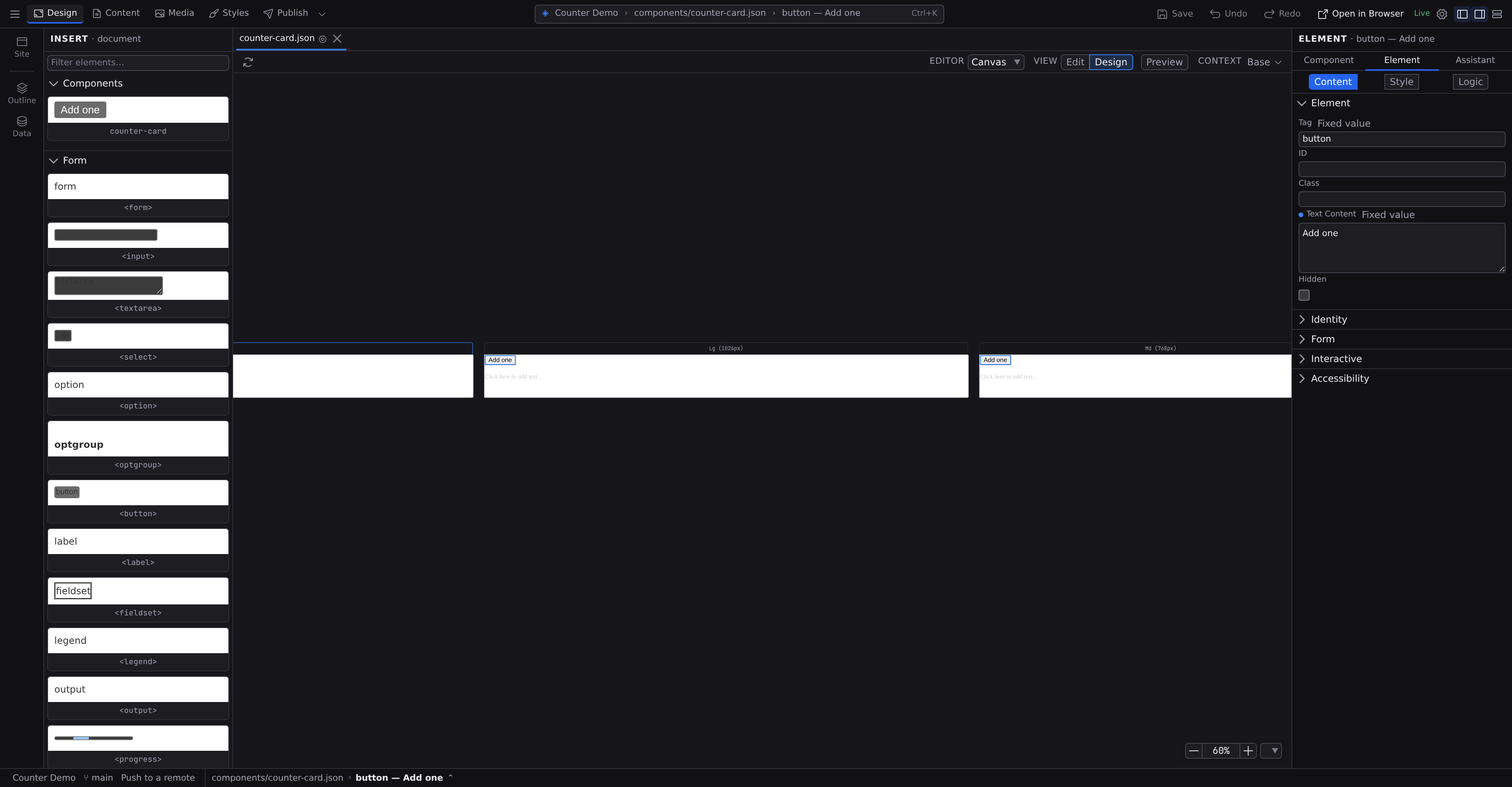
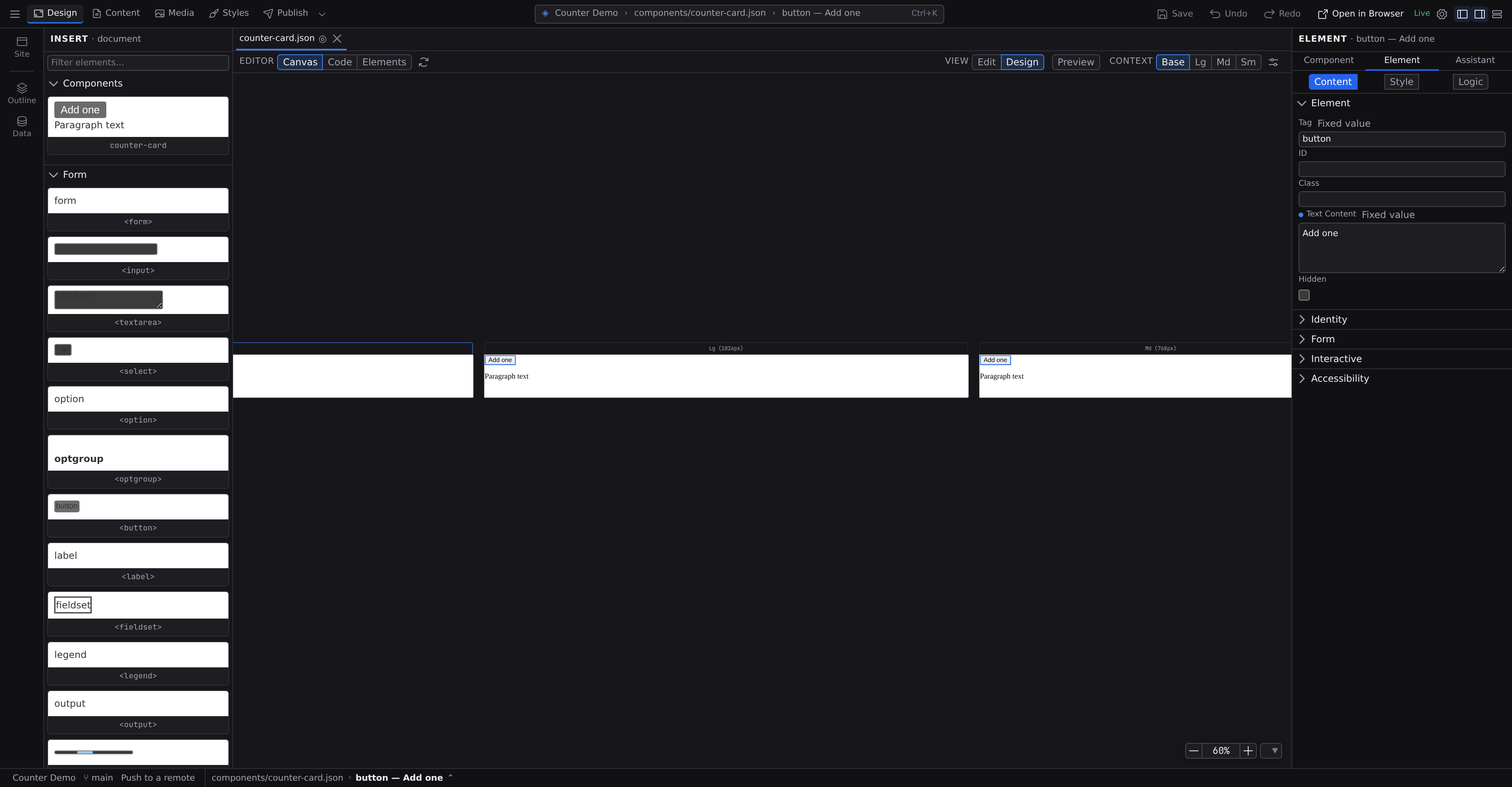
docs: walk the first component through the workspaces (#557)

Changed region(s): [[0.0312, 0.155, 0.1562, 0.992], [0.625, 0.062, 0.8438, 0.093], [0.1562, 0.062, 0.2812, 0.093]]

diff --git a/docs/start/first-component.md b/docs/start/first-component.md
@@ -1,11 +1,11 @@
 ---
 title: "Tutorial: your first interactive component"
-description: "Build a live counter card in Jx Studio, click by click: declare state, bind text to it, wire up a button's click event, and watch the value update."
+description: "Build a live counter card in Studio's Design workspace, click by click: declare state, bind text to it, wire a click event, and watch it update."
 ---
 
 # Tutorial: your first interactive component
 
-In this tutorial you build a `counter-card` component: a button and a line of text that counts the clicks, live. Small as it is, it walks the whole loop every interactive piece of a Jx site is made from, without writing any code: elements on the canvas, a state value, a binding, and an event.
+In this tutorial you build a `counter-card` component: a button and a line of text that counts the clicks, live. Small as it is, it walks the whole loop every interactive piece of a Jx site is made from, without writing any code: elements on the canvas, a state value, a binding, and an event. All of it happens in the **Design** workspace, where pages, templates and components are built.
 
 ![The finished counter card on the canvas with Preview on, showing a count of 3](../images/counter-finished.png)
 
@@ -20,41 +20,42 @@ Any project works. If you already have one from [Your first project](/docs/start
 
 ![The New Project dialog with the starter gallery and the Start from scratch card](../images/new-project-modal.png)
 
-You should now see your project open on the canvas.
+You should now see your project open on the canvas, with **Design** selected among the workspace tabs in the Command Bar (**Design**, **Content**, **Media**, **Styles**, **Publish**). A workspace is the task the window is set up for. If another tab is selected, click **Design** or press :kbd[⌘1]. See **[The workspace](/docs/studio/interface)**.
 
 ## 2. Create the component
 
 1. Press :kbd[⌘N] to open **Add new** (in a browser, :kbd[⌘⌥N]), or click the **+** at the top of the Site panel.
 2. Choose **Component**.
-3. Type `counter-card` and click **Create component**.
+3. Click **Component name**, type `counter-card`, leave **Start from** on **Blank**, and click **Create component**.
 
-Studio writes `components/counter-card.json` and opens it in a new tab, an empty canvas ready to fill. (When to reach for a component versus a page or layout is covered in **[Pages, layouts, and components](/docs/studio/projects/pages-layouts-components)**.)
+Studio writes `components/counter-card.json`, lists it under **Components** in the Site panel, and opens it in a new tab, an empty canvas ready to fill. Components belong to the Design workspace, so you stay where you are. (When to reach for a component versus a page or layout is covered in **[Pages, layouts, and components](/docs/studio/projects/pages-layouts-components)**.)
 
-## 3. Switch to Design
+## 3. Switch to the Design view
 
-Component files open in **Edit**. In the **View** control on the pane's context bar, click **Design**.
+Design is the name of the workspace and also of a view inside it. Component files open in the **Edit** view, so in the **View** control on the pane's context bar, click **Design**.
 
 ![Jx Studio design canvas showing one component across four responsive breakpoints with a style inspector](../images/mode-design.png)
 
-The canvas now shows your component once per breakpoint, empty for the moment, and the Inspector on the right offers the **Content**, **Style**, **Logic**, and **Assistant** tabs. Views are lenses on the same file; see **[Editors and views](/docs/studio/interface/modes)**.
+The canvas now shows your component once per breakpoint, empty for the moment, and the Inspector on the right has three tabs: **Component**, which holds the file's own settings, **Element**, which holds **Content**, **Style**, and **Logic** views of whatever you select, and **Assistant**. Views are lenses on the same file; see **[Editors and views](/docs/studio/interface/modes)**.
 
 ## 4. Add a button and a text line
 
-1. Press :kbd[⌘K] and run **Show Insert** to open the palette.
+1. Press :kbd[⌘K], type `>Show Insert`, and press :kbd[Enter]. The **Insert** palette replaces the Site panel in the Navigator. (The `>` is what searches commands; without it, :kbd[⌘K] searches your files.)
 2. With nothing selected, click the `<button>` card. The button is added to the empty component.
-3. Click the `<p>` card to add a paragraph. A card inserts into whatever is selected, as its last child; with nothing selected that's the component's root, so the paragraph lands after the button rather than inside it.
-4. Select the button, open the Inspector's **Content** tab, and type `Add one` into **Text Content**.
+3. Click the `<p>` card to add a paragraph, typing `p` into **Filter elements…** if you'd rather not scroll. A card inserts into whatever is selected, as its last child; with nothing selected that's the component's root, so the paragraph lands after the button rather than inside it.
+4. Select the button on the canvas. The Inspector moves to its **Element** tab, on the **Content** view.
+5. Open the **Element** section if it is collapsed, and replace `Button` in **Text Content** with `Add one`.
 
-![The design canvas with a button labeled Add one and an empty paragraph below it](../images/counter-elements.png)
+![The design canvas with a button labeled Add one and the words Paragraph text below it](../images/counter-elements.png)
 
-You should now see a button labeled **Add one** with an empty paragraph after it, at every breakpoint. The other ways to insert, dragging cards and the **+** affordance between elements, are covered in **[The canvas](/docs/studio/interface/canvas)** and the **[Insert palette](/docs/studio/design/elements)**.
+You should now see a button labeled **Add one** with the placeholder words `Paragraph text` after it, at every breakpoint. The other ways to insert, dragging cards and the **+** affordance between elements, are covered in **[The canvas](/docs/studio/interface/canvas)** and the **[Insert palette](/docs/studio/design/elements)**.
 
 ## 5. Declare the count
 
 The component needs somewhere to keep its number. That's a state entry:
 
 1. Click **Data** in the **Document** group of the Navigator rail to open the **Data** panel.
-2. Click the **+ Add…** picker at the bottom of the panel and choose **Value**. The new entry appears with a placeholder name and its editor open.
+2. Click **Add a value**, or choose **Value** from the **+ Add…** picker below it. The new entry appears with a placeholder name and its editor open.
 3. Rename it first: type `count` into the **Name** field and press :kbd[Enter].
 4. Set **Type** to `integer`, then type `0` into **Default**. A new entry starts with an empty default, and an empty string is not something you can add one to.
 
@@ -67,28 +68,28 @@ The panel now shows a **State** section with one row: an **S** badge and the nam
 Now point the paragraph at the value instead of typing fixed text:
 
 1. Select the paragraph on the canvas.
-2. In the Inspector's **Content** tab, find the **Text Content** row in the **Element** section. Beside its label sits a small chip reading **Fixed value**. That is the row's _value source_, and it says the text is a literal you typed.
+2. In the Inspector's **Element** tab, on the **Content** view, find the **Text Content** row in the **Element** section. Beside its label sits a small chip reading **Fixed value**. That is the row's _value source_, and it says the text is a literal you typed.
 3. Click the chip. A short list opens naming every source this field accepts (**Fixed value**, **From data…**, **Mixed text**), each with a line saying what it does. Pick **Mixed text**. Any source is one click away; the chip never cycles you through the ones you didn't want.
 4. Studio fills the field with your first state entry: `${state.count}`. Keep it, or mix in words: `Clicked ${state.count} times`.
 
-![The Text Content row set to Mixed text, holding ${state.count}, with its value-source chip accent-colored](../images/counter-text-binding.png)
+![The Text Content row set to Mixed text, holding ${state.count}](../images/counter-text-binding.png)
 
-The chip takes on the accent color: this value is produced from something else now, and the paragraph will always show the current count. The same four words name a value's source everywhere in Studio (**Fixed value**, **From data…**, **Mixed text**, **Formula**), and each field offers only the ones it can legally hold, which is why Text Content shows three of them. The dynamic ones are explained in **[Formulas and expressions](/docs/studio/logic/formulas)**.
+The chip now reads **Mixed text**: this value is produced from something else, and the paragraph will always show the current count. On the canvas it shows the binding itself, `❪ state.count ❫`, until you preview it. The same four words name a value's source everywhere in Studio (**Fixed value**, **From data…**, **Mixed text**, **Formula**), and each field offers only the ones it can legally hold, which is why Text Content shows three of them. The dynamic ones are explained in **[Formulas and expressions](/docs/studio/logic/formulas)**.
 
 ## 7. Make the button count
 
-1. Select the button and open the Inspector's **Logic** tab, either by clicking it or by pressing :kbd[⌘⇧4]. Logic is where an element's behavior lives: its events, and the condition or repeating-list settings when it has them.
-2. In the **Events** section, click **Add Event**. A binding appears on `onclick`, and since the file has no functions yet it starts as an inline handler.
-3. The picker beside the event name chooses how the binding responds. Set it to **Expression**, the mode for one-step reactions. (**Inline code** and **Existing function** are the other two.)
-4. In the formula editor, set the **Operator** to `+=`. The **Target** row becomes a signal picker, so choose `count`. In the **Value** row, leave the source on **Fixed value**, change its type from `null` to `num`, and enter `1`.
+1. Select the button and open the **Logic** view of the Inspector's **Element** tab, either by clicking it or by pressing :kbd[⌘⇧4]. Logic is where an element's behavior lives: its events, and the condition or repeating-list settings when it has them.
+2. In the **Events** section, click **Add Event**. A binding appears on `onclick`, and since the file has no functions yet its value source chip reads **Inline function**.
+3. Click the chip to choose how the binding responds, and pick **Formula**, the source for one-step reactions. (**From data…** and **Inline function** are the other two.)
+4. In the formula editor, set the **Operator** to `+=`. Set **Target** to `count`. In the **Value** row, leave the source on **Fixed value**, change its type from `null` to `num`, and enter `1`.
 
-![The Logic tab with an onclick binding in expression mode incrementing count](../images/counter-onclick.png)
+![The Logic view with an onclick binding set to Formula, incrementing count](../images/counter-onclick.png)
 
-A chip strip above the editor summarizes the formula as a `count` chip followed by a `+=` chip, and each chip carries a small badge with the value it evaluates to against the running page. The three ways an event can respond (**Existing function**, **Expression**, **Inline code**) are covered in **[Events](/docs/studio/logic/events)**.
+A chip strip above the editor summarizes the formula as a `count` chip followed by a `+=` chip. The `+=` chip's badge reads `undefined`, because an assignment changes a value rather than producing one. The three ways an event can respond (**From data…**, **Formula**, **Inline function**) are covered in **[Events](/docs/studio/logic/events)**.
 
 ## 8. Try it in Preview
 
-Pick **Preview** in the **View** control on the context bar. The paragraph now shows `0`, the resolved value. Click **Add one** a few times.
+Click **Preview**, the toggle beside the **View** control on the context bar. **Design** stays marked, because it is the view you return to when you click **Preview** again. The paragraph now shows `0`, the resolved value. Click **Add one** a few times.
 
 ![The canvas with Preview on, the paragraph showing the climbed count](../images/counter-preview.png)
 
@@ -96,7 +97,7 @@ You should see the number climb with every click. That's the whole reactive loop
 
 ## 9. Watch the value resolve
 
-Click **Data** in the **Document** group of the Navigator rail, or run **Show Data** from :kbd[⌘K]. It lists the same entries as the Data panel, but with what each one is worth _right now_, so your `count` row shows the current number. Stay in Preview, click **Add one**, and watch the row change; **Refresh** re-renders the canvas and reads the values again.
+The **Data** panel also shows what each entry is worth _right now_. If it isn't still open, click **Data** in the **Document** group of the Navigator rail, then click the `count` row to open it: **Resolved to** holds the current number. Stay in Preview, click **Add one**, and watch it change; **Refresh** re-renders the canvas and reads the values again.
 
 ![The Data panel with the count entry showing its live value](../images/counter-data-explorer.png)
 
@@ -106,9 +107,9 @@ When a page ever looks wrong, this panel is where you find out what it actually 
 
 Because `count` is a plain state value on a component, it's also one of the component's _props_: an option a page can set when it uses the card.
 
-1. On the context bar, click **Defaults ⌄**. The popover headed **resolving with** holds one field per prop.
-2. Type `100` into the **count** field.
-3. The canvas re-renders with the count starting at 100, at every breakpoint, and the button now reads **1 set**.
+1. On the context bar, click **Defaults**. The popover headed **Resolving with** holds one field per prop.
+2. Type `100` into the **count** field and press :kbd[Enter].
+3. The canvas re-renders with the count starting at 100, and the context bar button now reads **1 set**.
 4. Clear the field to return to the default of `0`.
 
 ![The resolving-with popover holding a test value, the canvas rendering with it](../images/counter-test-prop.png)
@@ -119,7 +120,7 @@ Test values are a preview lens only, and are never saved into the component. Pro
 
 The document's tab shows a **●** dot for unsaved changes. Press :kbd[⌘S] (macOS) or :kbd[Ctrl+S] (Windows/Linux), or click **Save** in the Command Bar, and the dot goes away.
 
-You should see the dot disappear. When you're ready to publish, the **Publish** workspace takes it from here. See **[Source control](/docs/studio/publish/source-control)**.
+You should see the dot disappear. When you're ready to publish, the **Publish** workspace (:kbd[⌘5]) takes it from here; your tab stays open in Design while you are there. See **[Source control](/docs/studio/publish/source-control)**.
 
 ## What you built
 
@@ -127,7 +128,7 @@ A working, reusable component, and every piece of the interactive toolkit in one
 
 - A **state entry** (`count`) is the component's memory, and automatically its prop.
 - A **template binding** (`${state.count}`) is text that follows the value wherever it goes.
-- An **event expression** (`count += 1`, assembled from an operator and two operands) is behavior without a line of code.
+- An **event formula** (`count += 1`, assembled from an operator and two operands) is behavior without a line of code.
 - **Preview**, the **Data** panel's resolved values, and **test values** are three ways to watch it run.
 
 :::doc-note
@@ -136,7 +137,7 @@ Everything landed in one plain file, `components/counter-card.json`: the entry i
 
 ## Next steps
 
-- Drop the card onto any page from the **[Insert palette](/docs/studio/design/elements)**, where your components appear at the top.
+- Drag the card onto any page from **Components** in the Site panel, or insert it from the **[Insert palette](/docs/studio/design/elements)**, where your components appear at the top.
 - Style its spacing, color and hover states with the **[Style inspector](/docs/studio/design/style-inspector)**.
 - When one step isn't enough, build multi-step handlers as **[statements](/docs/studio/logic/statements)**.
 - Keep going: **[Tutorial: a blog with content collections](/docs/start/first-collection)**.

diff --git a/docs/studio/projects/media.md b/docs/studio/projects/media.md
@@ -79,7 +79,7 @@ Click **Upload** in the Media workspace's toolbar, or drop files anywhere on it.
 
 Only the kinds of file the workspace lists are uploaded: images, video, audio, PDFs and fonts. Drop a text file or a spreadsheet along with your pictures and Studio skips it and says which files it left out, rather than adding something you would never see here.
 
-You can also run **Upload Media…** from the command palette (:kbd[⌘K]), which opens the same file picker. **Rename Media File…** and **Duplicate Media File** are there too, for a script or a shortcut that names a file's path.
+You can also run **Upload Media…** from the command palette (:kbd[⌘K], then `>`), which opens the same file picker. **Rename Media File…** and **Duplicate Media File** are there too, for a script or a shortcut that names a file's path.
 
 ## Drag onto the canvas
 
@@ -98,7 +98,7 @@ Dropping onto a component that takes a single image (a card with a cover picture
 
 ## Choose media for a field
 
-Studio asks for an image or file in several places: an image's **Content** tab, a frontmatter field, and the Icon and social-image fields in **[Search appearance](/docs/studio/editing/frontmatter)**. Every one of them has a browse button and an **Upload** button.
+Studio asks for an image or file in several places: an image's **Content** view, a frontmatter field, and the Icon and social-image fields in **[Search appearance](/docs/studio/editing/frontmatter)**. Every one of them has a browse button and an **Upload** button.
 
 The browse button opens a compact list: a search box over the project's media, matched on name or path, with a thumbnail for every image. It lists the first 50 files, and **Show N more** at the foot of the list lists the next 50, so every file the Media workspace has can be reached from here. A field that holds a picture lists only images. It opens above whatever surface it was called from, so it works the same in a panel and in a window like Search appearance.
 
@@ -157,7 +157,7 @@ This is the fastest way to check what an [imported site](/docs/studio/projects/c
 
 ## Edit an image
 
-An image you can edit offers a second editor next to **Media** in the pane's **Editor** control: **Image**. Choose it there, or choose **Edit image** in the Media workspace, or run **Edit Image…** from the command palette.
+An image you can edit offers a second editor next to **Media** in the pane's **Editor** control: **Image**. Choose it there, or choose **Edit image** in the Media workspace, or run **Edit Image…** from the command palette (:kbd[⌘K], then `>`).
 
 ![The Image editor: a photo with crop handles around it, and the orientation, size, quality and tone controls beside it](../../images/image-editor.png)
 

diff --git a/docs/studio/logic.md b/docs/studio/logic.md
@@ -24,17 +24,17 @@ Together they cover the whole range: most interactions never need code, and the 
 
 Here is the shape of the workflow, end to end:
 
-1. Open a component and click **Data** on the Navigator rail. Choose _+ Add… > Value_, name it `$count`, set its **Type** to `integer` and its **Default** to `0`. The component now knows a number.
-2. Add a button to the canvas and set its text to show `$count`. Click the **value source** chip beside **Text Content** on the Content tab, pick **From data…**, and choose `$count`.
-3. With the button selected, open the Inspector's **Logic** tab and click **Add Event**. Set the event to `onclick`, choose the **Expression** mode, and build the one-step formula `$count += 1`.
-4. Pick **Preview** in the **View** control on the context bar and click the button. The number climbs, and in the **Data** panel you can watch `$count` change in real time.
+1. Open a component and click **Data** on the Navigator rail. Choose _+ Add… > Value_, name it `count`, set its **Type** to `integer` and its **Default** to `0`. The component now knows a number.
+2. Add a button to the canvas and set its text to show `count`. Click the **value source** chip beside **Text Content** in the Inspector's **Content** view, pick **From data…**, and choose `count`.
+3. With the button selected, open the Inspector's **Logic** view and click **Add Event**. A binding appears on `onclick`. Click its value source chip, pick **Formula**, and build the one-step formula `count += 1`.
+4. Click **Preview**, the toggle beside the **View** control on the context bar, and click the button. The number climbs, and in the **Data** panel you can watch `count` change in real time.
 
 No files were written by hand: Studio stored the value, the binding, and the handler inside the component's own JSON file.
 
 ## When each surface applies
 
 - Reach for **Data** first, because every other surface refers back to what you declare there.
-- Use the Inspector's **Logic** tab whenever behavior belongs to one element ("this button submits", "this list repeats per product", "this field filters the list").
+- Use the Inspector's **Logic** view whenever behavior belongs to one element ("this button submits", "this list repeats per product", "this field filters the list").
 - Use **formulas** for values that are calculated rather than typed, and **[statements](/docs/studio/logic/statements)** when a handler needs several steps in order.
 - Prefer the plainest value source a field will accept. A signal (**From data…**) is easier to read and to revisit than a formula that only fetches one value.
 - Come back to **Data** whenever something looks wrong. It shows what the page actually sees, not what you hoped it sees.

diff --git a/docs/studio/design/breakpoints.md b/docs/studio/design/breakpoints.md
@@ -63,7 +63,7 @@ Breakpoints layer in the same order a browser applies their media queries, so wh
 
 ## Define your breakpoints
 
-Breakpoints are defined in one place: **Settings › Advanced › Contexts**. Pick **Open Project Settings › Contexts** from the **Settings** menu in the Command Bar. You can also press :kbd[⌘K] and run **Open Project Settings**, or use the **⬢ menu** in the Command Bar, then choose **Contexts** in the section list. From the canvas, the sliders button at the end of the context bar's **Context** controls opens a popover with a **Manage contexts…** button at the bottom that lands on the same section without losing your element selection.
+Breakpoints are defined in one place: **Settings › Advanced › Contexts**. Pick **Open Project Settings › Contexts** from the **Settings** menu in the Command Bar. You can also press :kbd[⌘K] and type `>Open Project Settings`, or use the **⬢ menu** in the Command Bar, then choose **Contexts** in the section list. From the canvas, the sliders button at the end of the context bar's **Context** controls opens a popover with a **Manage contexts…** button at the bottom that lands on the same section without losing your element selection.
 
 The section holds three groups, because all three are the same thing on disk and only differ in what their condition asks about:
 
@@ -86,7 +86,7 @@ Forcing a scheme while the size is **Base** points your edits at that scheme's o
 :::doc-note
 **Definition and selection are separate.** Settings › Contexts is the only place a context is created, renamed or deleted. The context bar's **Context** controls only _choose_ among what is defined there, and the Style tab's Target Line only _states_ what was chosen. Clicking its breakpoint segment takes you to Settings › Contexts rather than offering a third list to disagree with.
 
-Every choice in that popover is also a command, so you can make it without reaching for the mouse: press :kbd[⌘K] and run **Set Breakpoint**, **Set Color Scheme** or **Show Layout Elements**. Each one asks for the value it needs, and Set Breakpoint lists the breakpoints this page can actually render under if you name one it can't.
+Every choice in that popover is also a command, so you can make it without reaching for the mouse: press :kbd[⌘K] and type `>Set Breakpoint`, `>Set Color Scheme` or `>Show Layout Elements`. Each one asks for the value it needs, and Set Breakpoint lists the breakpoints this page can actually render under if you name one it can't.
 :::
 
 :::doc-note

diff --git a/docs/studio/interface/modes.md b/docs/studio/interface/modes.md
@@ -34,7 +34,7 @@ Edit is for writing. The canvas becomes the page itself: click any text and type
 
 ## Design
 
-Design is for structure and style. The canvas shows a live panel per breakpoint, phone and tablet and desktop side by side, and the **Style** tab of the Inspector becomes a full visual inspector for the selected element. A page's title, layout and frontmatter are on the Inspector's **Page** tab, in Design as in Edit. Full guide: **[Design mode](/docs/studio/design)**.
+Design is for structure and style. The canvas shows a live panel per breakpoint, phone and tablet and desktop side by side, and the **Style** view of the Inspector becomes a full visual inspector for the selected element. A page's title, layout and frontmatter are on the Inspector's **Page** tab, in Design as in Edit. Full guide: **[Design mode](/docs/studio/design)**.
 
 ![Jx Studio design canvas showing one component across four responsive breakpoints with a style inspector](../../images/mode-design.png)
 
@@ -76,7 +76,7 @@ The full guide is **[Source control](/docs/studio/publish/source-control#read-a-
 
 ## Project Styles
 
-Project Styles is the Styles workspace's two style editors over your project file. **Elements** is the catalog of your project's element defaults: every heading, button, and link rendered with its base style, so you set the look of each element type once for the whole site. Selecting an element switches the Inspector to the **Style** tab automatically. **Variables** lists your site's CSS custom properties by group, each editable in place. See **[Project Styles](/docs/studio/design/stylebook)** and **[Design tokens](/docs/studio/design/tokens)**.
+Project Styles is the Styles workspace's two style editors over your project file. **Elements** is the catalog of your project's element defaults: every heading, button, and link rendered with its base style, so you set the look of each element type once for the whole site. Selecting an element switches the Inspector to the **Style** view automatically. **Variables** lists your site's CSS custom properties by group, each editable in place. See **[Project Styles](/docs/studio/design/stylebook)** and **[Design tokens](/docs/studio/design/tokens)**.
 
 ![Jx Studio Project Styles showing element defaults across breakpoints](../../images/stylebook.png)
 

diff --git a/docs/start/first-collection.md b/docs/start/first-collection.md
@@ -18,7 +18,7 @@ In this tutorial you give your site a blog the structured way: a `posts` content
 
 A content type is your CMS schema: where a collection's entries live, and what fields each one carries.
 
-1. Open the **Settings** menu in the Command Bar and pick **Open Project Settings › Content Types**. (:kbd[⌘K] and **Open Project Settings** gets you to the same place.)
+1. Open the **Settings** menu in the Command Bar and pick **Open Project Settings › Content Types**. (:kbd[⌘K] and `>Open Project Settings` gets you to the same place.)
 2. Click **New content type** at the bottom of the type list.
 3. Type `Posts` and click **Create**.
 
@@ -106,9 +106,9 @@ You should see the empty page on the design canvas, once per breakpoint.
 
 Design a single card, which the repeater will copy per post:
 
-1. Press :kbd[⌘K] and run **Show Insert**. With nothing selected, click the **article** card.
+1. Press :kbd[⌘K] and type `>Show Insert`. With nothing selected, click the **article** card.
 2. With the article selected, click the **h3** card, then the **p** card twice. Each new element lands inside the selection.
-3. Select each of the three in turn and give it placeholder text via **Text Content** in the Inspector's **Content** tab: `Post title`, `A line about the post.`, and `2026-01-01`.
+3. Select each of the three in turn and give it placeholder text via **Text Content** in the Inspector's **Content** view: `Post title`, `A line about the post.`, and `2026-01-01`.
 
 ![The design canvas with one article card holding a heading and two placeholder paragraphs](../images/blog-card.png)
 
@@ -151,7 +151,7 @@ Each text now holds a placeholder that fills itself from the current post. (A co
 
 ## 13. Preview and save
 
-Pick **Preview** in the **View** control on the context bar.
+Click **Preview**, the toggle beside the **View** control on the context bar.
 
 ![Preview on, the single card expanded into three post cards with real titles, dates, and descriptions](../images/blog-preview.png)
 

diff --git a/docs/studio/design/style-inspector.md b/docs/studio/design/style-inspector.md
@@ -18,9 +18,9 @@ code:
 
 # Style inspector
 
-The Style inspector is the **Style** tab of the Inspector, a full set of visual CSS controls for what you have selected. Select an element in Design mode and click **Style** (or press :kbd[⌘⇧3]); edits apply to the live canvas as you make them. The dock's header names the tab and what it is pointed at: the element's tag, `6 elements` when several are selected, or the document's name when nothing is.
+The Style inspector is the **Style** view of the Inspector, a full set of visual CSS controls for what you have selected. Select an element in Design mode and click **Style** (or press :kbd[⌘⇧3]); edits apply to the live canvas as you make them. The dock's header names the view and what it is pointed at: the element's tag, `6 elements` when several are selected, or the document's name when nothing is.
 
-With no file open the tab offers **Open a page…**; with a file open and nothing selected it asks you to click anything on the canvas to style it, in the same words the **Content** and **Logic** tabs use. Beside the **Variables** view of the Styles workspace there is no element to style, so the tab says that variables are edited in the view itself and points you to the **Elements** view for element defaults (see **[Design tokens](/docs/studio/design/tokens)**).
+With no file open the view offers **Open a page…**; with a file open and nothing selected it asks you to click anything on the canvas to style it, in the same words the **Content** and **Logic** views use. Beside the **Variables** view of the Styles workspace there is no element to style, so the view says that variables are edited in the view itself and points you to the **Elements** view for element defaults (see **[Design tokens](/docs/studio/design/tokens)**).
 
 ![Jx Studio style inspector with spacing, typography, and color controls for a selected element](../../images/design-inspector.png)
 

diff --git a/docs/studio/projects/content-types.md b/docs/studio/projects/content-types.md
@@ -27,7 +27,7 @@ code:
 
 Content types are your site's CMS schema. Each one describes a collection (blog posts, team members, projects) by naming the folder its entries live in, the file format they use, and the fields every entry carries. Once a type exists, Studio can create entries against it and draw their fields as a form.
 
-The builder is a section of [Project settings](/docs/studio/projects/settings), listed under **Integrations** because the parser extension contributes it. Pick **Open Project Settings › Content Types** from the **Settings** menu in the Command Bar. You can also press :kbd[⌘K] and run **Open Project Settings**, or use the **⬢ menu** in the Command Bar, then choose **Content Types** from the section list: the section opens with one sentence on what a content type is, your types are listed on the left, and selecting one opens its editor on the right. Like every other section, what you change here is written to `project.json` as you make it.
+The builder is a section of [Project settings](/docs/studio/projects/settings), listed under **Integrations** because the parser extension contributes it. Pick **Open Project Settings › Content Types** from the **Settings** menu in the Command Bar. You can also press :kbd[⌘K] and type `>Open Project Settings`, or use the **⬢ menu** in the Command Bar, then choose **Content Types** from the section list: the section opens with one sentence on what a content type is, your types are listed on the left, and selecting one opens its editor on the right. Like every other section, what you change here is written to `project.json` as you make it.
 
 ![The Content Types section with a type selected and its field schema open in the builder](../../images/content-type-builder.png)
 

diff --git a/docs/studio/data/tables.md b/docs/studio/data/tables.md
@@ -73,7 +73,7 @@ Filtering, sorting, and paging all happen in the database rather than in the bro
 :::doc-note
 Compiled pages carry no extension code. Each source is lowered at build time into a plain request to your site's own `/_jx/data` routes: `GET /_jx/data/comments?filter=…&sort=…&limit=…&offset=…&include=…` for a query, `GET /_jx/data/comments/<id>` for an entry, and `POST`/`PATCH`/`DELETE` for the actions. Each write action becomes an inline handler that reads the submitted form. Permission rules are evaluated on the server for every one of those requests.
 
-In the JSON, a route parameter binds as `{ "$ref": "#/$params/id" }` (the same way a **[dynamic route](/docs/framework/site/routing)** binds a content entry), and a form points at a write action with `"onsubmit": { "$ref": "#/state/addComment" }`. That last one is written in the **[Code editor](/docs/studio/logic/code)** today, because the **[Events](/docs/studio/logic/events)** section of the Inspector's **Logic** tab (:kbd[⌘⇧4]) lists plain functions in its handler picker, and a write action is not one.
+In the JSON, a route parameter binds as `{ "$ref": "#/$params/id" }` (the same way a **[dynamic route](/docs/framework/site/routing)** binds a content entry), and a form points at a write action with `"onsubmit": { "$ref": "#/state/addComment" }`. That last one is written in the **[Code editor](/docs/studio/logic/code)** today, because the **[Events](/docs/studio/logic/events)** section of the Inspector's **Logic** view (:kbd[⌘⇧4]) lists plain functions in its handler picker, and a write action is not one.
 :::
 
 To see and fix the rows by hand, open the **[Data grid](/docs/studio/data/grid)**.

diff --git a/docs/start/coming-from-webflow.md b/docs/start/coming-from-webflow.md
@@ -67,7 +67,7 @@ Collections cover the content you author. Data that arrives while the site is ru
 
 ## Interactions, honestly
 
-Behavior in Jx comes from three surfaces working together: **[State](/docs/studio/logic/data)** declares what a page knows, the Inspector's **Logic** tab (:kbd[⌘⇧4]) binds **[events](/docs/studio/logic/events)** to clicks, typing, and submits, and **[formulas](/docs/studio/logic/formulas)** compute values live. Logic is also where a `$switch` picks between variants and where a repeater is pointed at its list, so everything about how one element behaves is in one place. The logic side of interactions is covered, often more directly than a timeline can express it: toggles, tabs, filtered lists, form behavior.
+Behavior in Jx comes from three surfaces working together: **[State](/docs/studio/logic/data)** declares what a page knows, the Inspector's **Logic** view (:kbd[⌘⇧4]) binds **[events](/docs/studio/logic/events)** to clicks, typing, and submits, and **[formulas](/docs/studio/logic/formulas)** compute values live. Logic is also where a `$switch` picks between variants and where a repeater is pointed at its list, so everything about how one element behaves is in one place. The logic side of interactions is covered, often more directly than a timeline can express it: toggles, tabs, filtered lists, form behavior.
 
 What Jx doesn't have is Webflow's scroll-driven animation timeline. Hover and focus effects with CSS transitions come through [States and selectors](/docs/studio/design/states-and-selectors), but choreographed scroll animation isn't a built-in surface today.
 

diff --git a/docs/studio/editing/writing.md b/docs/studio/editing/writing.md
@@ -96,7 +96,7 @@ Text that a component fills from data can't be edited this way, because typing o
 
 The same goes for an option that holds a **number or a yes/no value** rather than text: it shows as text on the page, but editing it here would turn it into text and break anything that counts or compares it. Use the properties sidebar, which knows what kind of value the option takes.
 
-Sometimes the page already sets an option some other way: as a plain attribute, or straight on the component tag rather than in its options. Those are left to the Inspector's **Content** tab too. Editing it here would quietly create a second copy of the same value: sometimes the page keeps showing the first one and your change appears to do nothing, and otherwise the old copy sits there unused and comes back the day the option is cleared.
+Sometimes the page already sets an option some other way: as a plain attribute, or straight on the component tag rather than in its options. Those are left to the Inspector's **Content** view too. Editing it here would quietly create a second copy of the same value: sometimes the page keeps showing the first one and your change appears to do nothing, and otherwise the old copy sits there unused and comes back the day the option is cleared.
 
 Clicking a component's text and clicking away again changes nothing, because an option only gets set on that instance when you actually edit it. :kbd[Esc] is a real cancel, including after Studio has already saved a pause mid-edit.
 

diff --git a/docs/studio/design/components.md b/docs/studio/design/components.md
@@ -56,7 +56,7 @@ By default an instance renders exactly what the component defines. A **slot** is
 
 ## Preview with test props
 
-A component file open on its own renders with its defaults, but defaults are often empty. Open the context bar's **resolving with** popover and you get one field per prop, stacked; type a value to see the component render with it, live on the canvas at every breakpoint. Numbers, `true`/`false`, and lists in JSON form are understood as such; anything else counts as text. Each field is also a command, so you can set one by name without reaching for the popover: press :kbd[⌘K] and run **Set Test Value**.
+A component file open on its own renders with its defaults, but defaults are often empty. Open the context bar's **resolving with** popover and you get one field per prop, stacked; type a value to see the component render with it, live on the canvas at every breakpoint. Numbers, `true`/`false`, and lists in JSON form are understood as such; anything else counts as text. Each field is also a command, so you can set one by name without reaching for the popover: press :kbd[⌘K] and type `>Set Test Value`.
 
 Test values are a preview lens only: they're never saved into the component, and clearing a field returns the prop to its default. They pair with the **Preview** toggle described in **[Modes and preview](/docs/studio/interface/modes)**.
 
